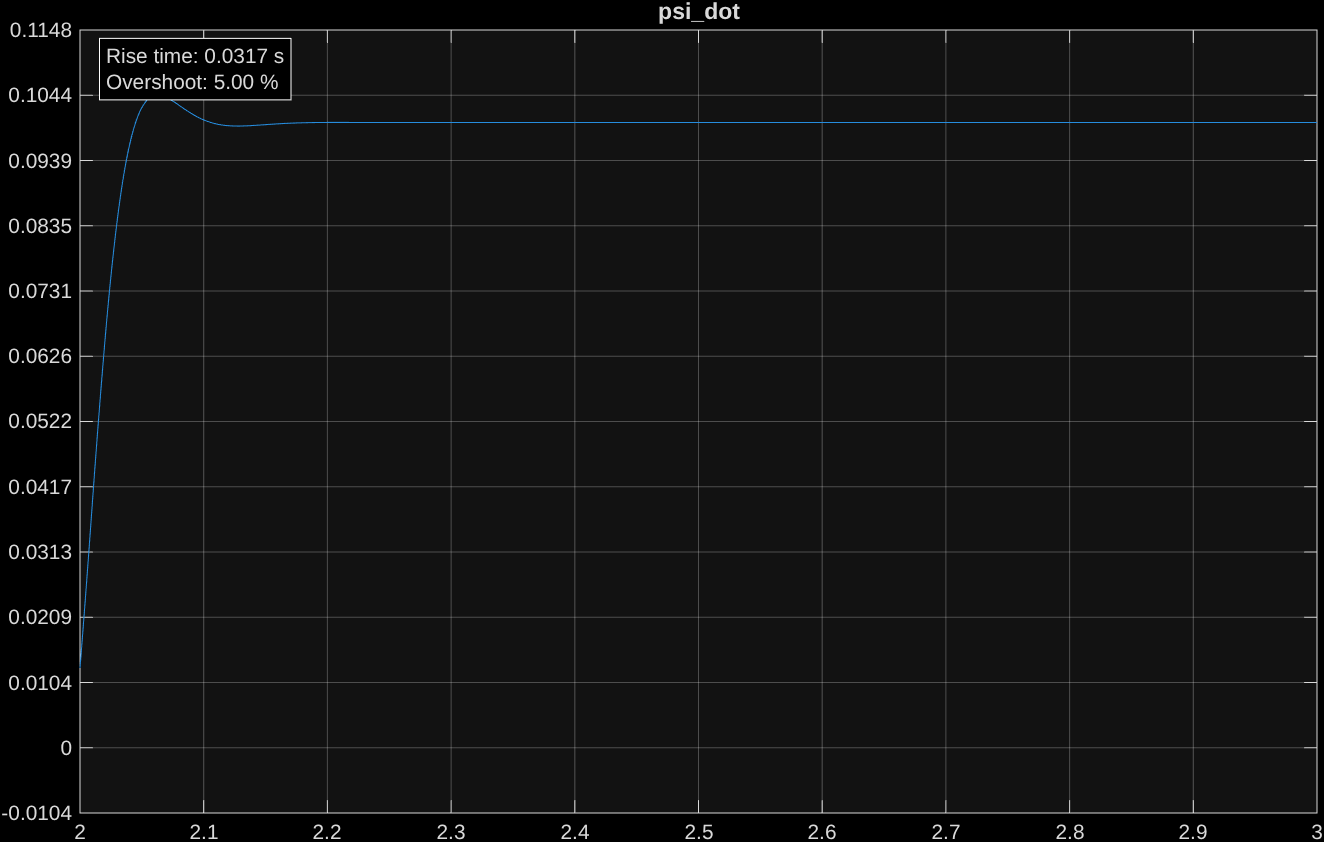
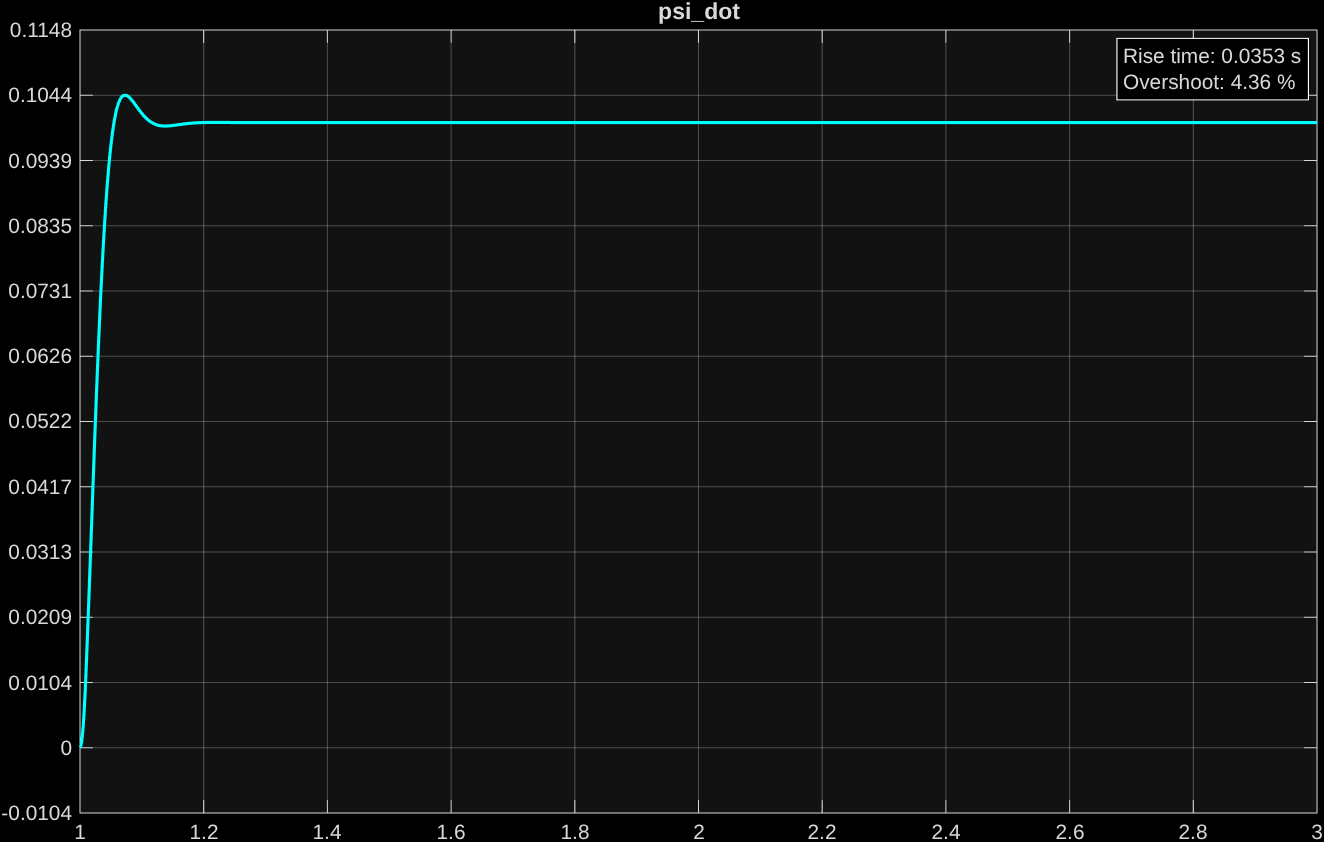
Plot psi_dot

diff --git a/plot_whatever.m b/plot_whatever.m
@@ -1,7 +1,7 @@
 plot_angular_vel = 0;
 plot_states = 1;
 plot_all = 0;
-k = [12];
+k = [6];
 
 phi = S_log(:,1);
 theta = S_log(:,2);
@@ -240,9 +240,9 @@ if(plot_states == 1)
 
             % xrange = max(t_log) - min(t_log);
             l = 0;
-            % l = 2;
+            l = 1;
             k = max(t_log);
-            k = 2;
+            k = 3;
             xlim([l k]);
             xticks(linspace(l, k, 11));
             grid on

diff --git a/input.m b/input.m
@@ -1,9 +1,9 @@
-if(i < 100)
+if(i < 101)
     % S_d = [0; 0; 0; -1];
-    rates_d = [0; 0; 0; -1];
-elseif(i >= 100)
+    rates_d = [0; 0; 0; 0];
+elseif(i >= 101)
     % S_d = [0; 0; 0; -1];
-    rates_d = [0; 0; 0; -1];
+    rates_d = [0; 0; -0.1; 0];
 % elseif(i >= 300)
     % S_d = [0; 0.08; 0.1; 0];
     % rates_d = [0.1; 0.1; 0; 0];
